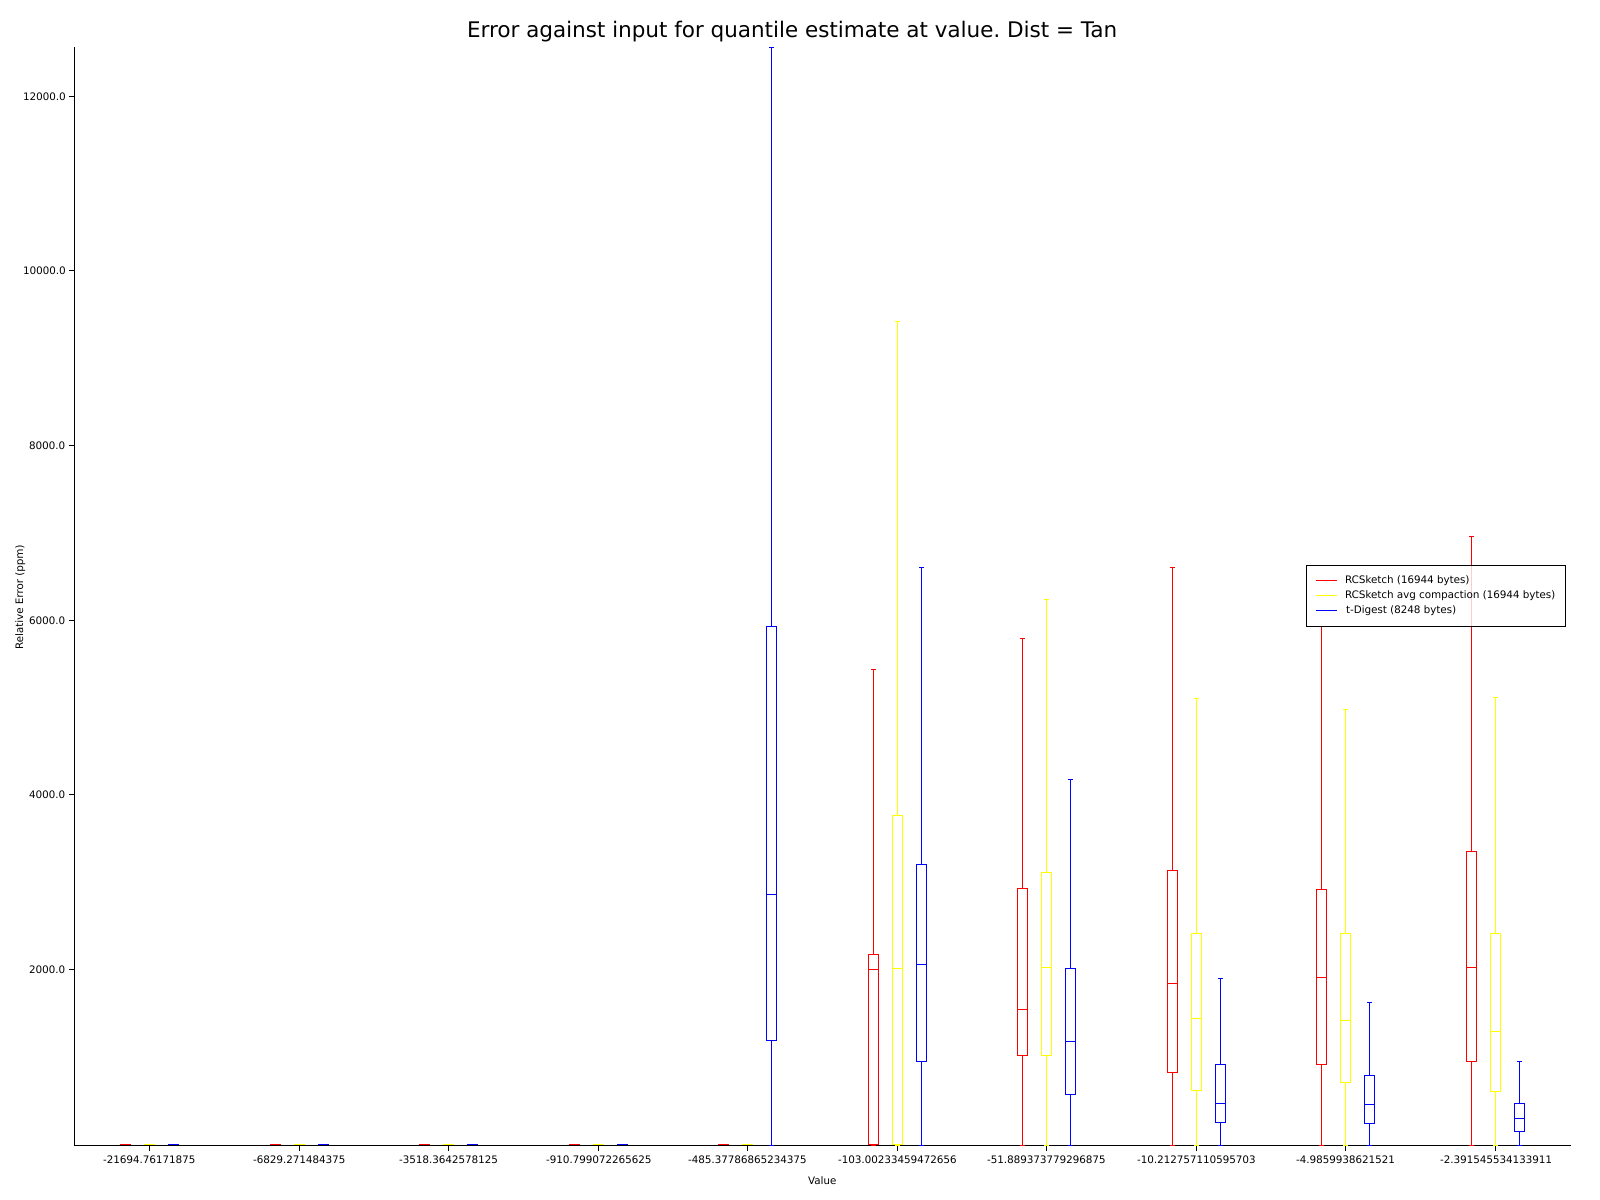
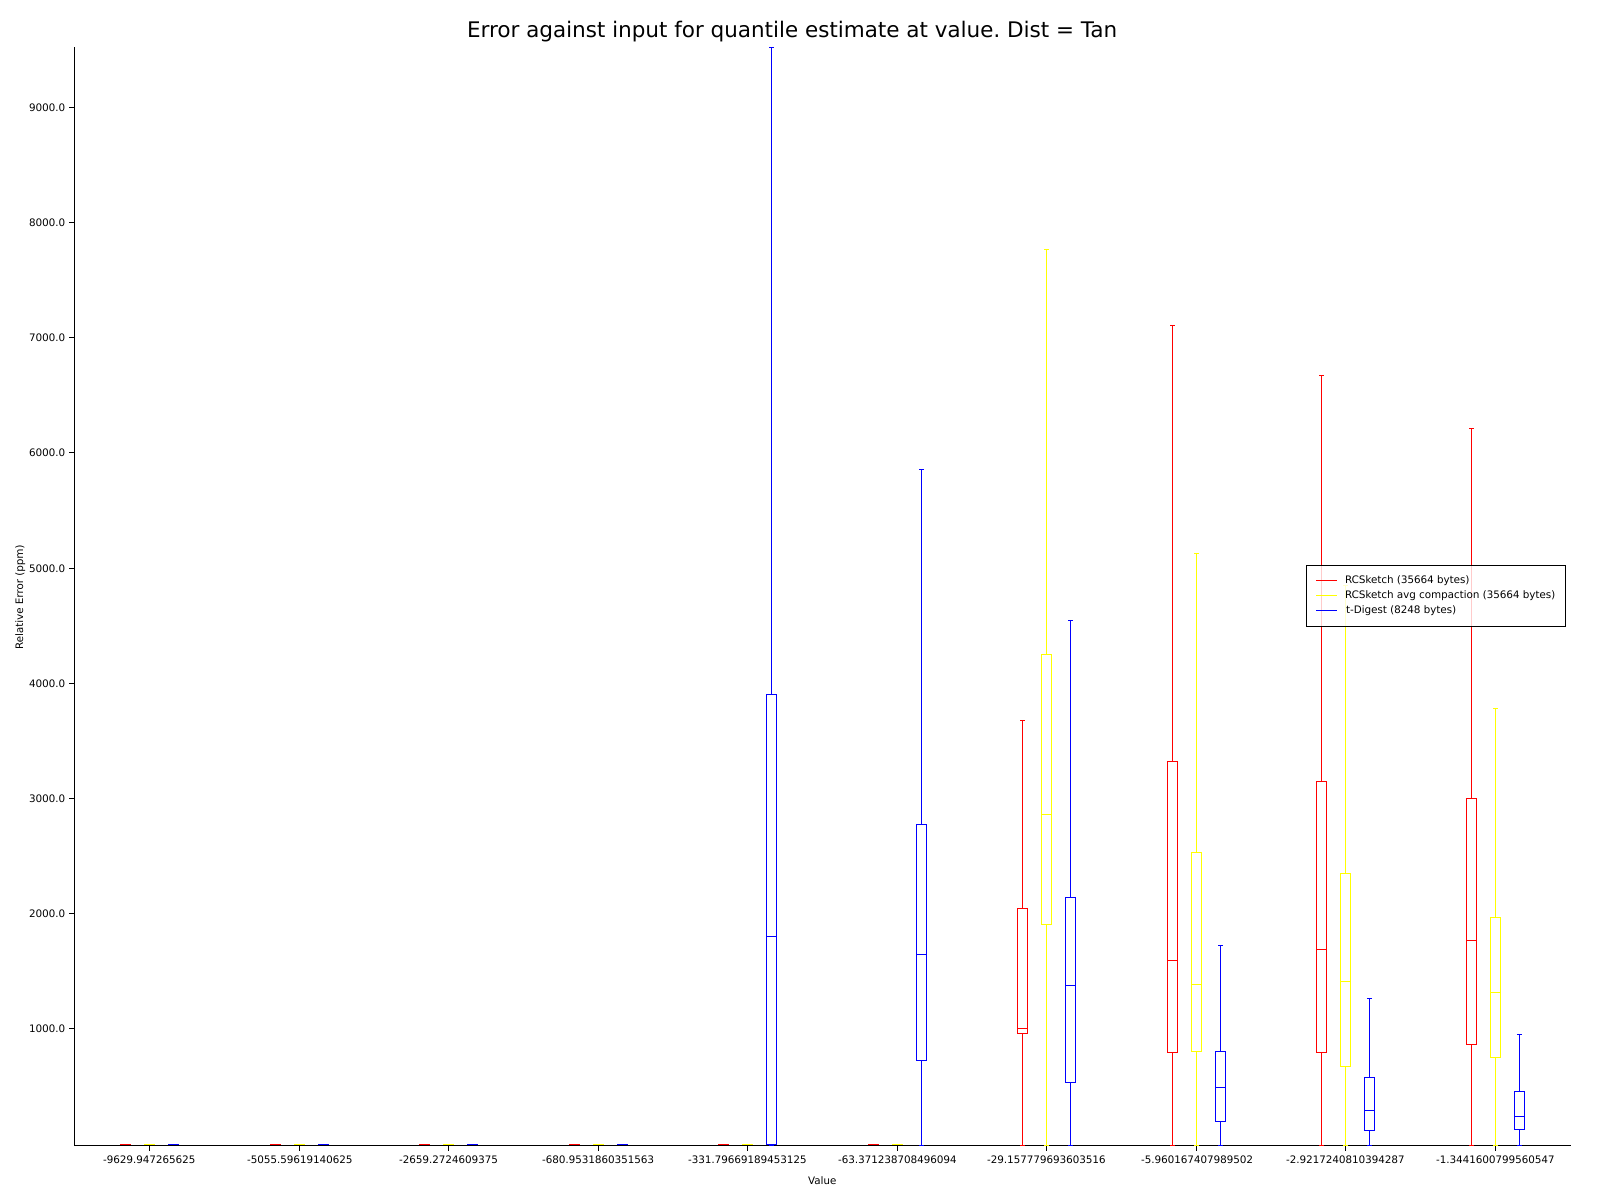
Test out only compacting the relative compactor when the whole digest would grow too large rather than individual buffers
- Performance is worse
- Accuracy not much better

diff --git a/src/relative_compactor.rs b/src/relative_compactor.rs
@@ -10,8 +10,10 @@ where
 {
     /// Vector of relative compactors
     pub buffers: Vec<Vec<F>>,
-    /// Upper bound on the number of inputs expected
-    pub input_length: usize,
+    // /// Upper bound on the number of inputs expected
+    // pub input_length: usize,
+    /// Number of elements in the compactor
+    pub nom_size: usize,
     /// Parameter controlling error and buffer size
     pub k: usize,
     /// Size of the buffers
@@ -96,8 +98,8 @@ where
     pub fn new(input_length: usize, k: usize) -> RCSketch<F> {
         RCSketch {
             buffers: Vec::new(),
-            input_length,
             k,
+            nom_size: 0,
             buffer_size: Self::calc_buffer_size(input_length, k),
             count: 0,
             compaction_counters: Vec::new(),
@@ -176,20 +178,10 @@ where
             self.compaction_counters.push(0);
         }
         self.buffers[rc_index].push(item);
+        self.nom_size += 1;
         // If buffer is full compact and insert into the next buffer
-        if self.buffers[rc_index].len() >= self.buffer_size {
-            let compaction_index = if fast_compaction {
-                self.get_compact_index_fast()
-            } else {
-                self.get_compact_index(rc_index)
-            };
-            let output_items = self.compact(rc_index, compaction_index, compaction_method);
-            self.insert_at_rc_batch(
-                &output_items,
-                rc_index + 1,
-                fast_compaction,
-                compaction_method,
-            );
+        if self.nom_size >= self.buffer_size * self.buffers.len() {
+            self.compress(fast_compaction, compaction_method);
         }
     }
 
@@ -216,26 +208,35 @@ where
         let mut current_index = 0;
         while current_index < items.len() {
             let end = usize::min(
-                current_index + (self.buffer_size - self.buffers[rc_index].len()),
+                current_index + (self.buffer_size * self.buffers.len() - self.nom_size),
                 items.len(),
             );
             self.buffers[rc_index].extend(&items[current_index..end]);
+            self.nom_size += end - current_index;
             current_index = end;
             // If buffer is full compact and insert into the next buffer
             // Buffer may be overfilled since more than one item was added so keep compacting until size is below the buffer size.
-            while self.buffers[rc_index].len() >= self.buffer_size {
+            if self.nom_size >= self.buffer_size * self.buffers.len() {
+                self.compress(fast_compaction, compaction_method);
+            }
+        }
+    }
+
+    pub fn compress(&mut self, fast_compaction: bool, compaction_method: CompactionMethod) {
+        for h in 0..self.buffers.len() {
+            if self.buffers[h].len() >= self.buffer_size {
                 let compaction_index = if fast_compaction {
                     self.get_compact_index_fast()
                 } else {
-                    self.get_compact_index(rc_index)
+                    self.get_compact_index(h)
                 };
-                let output_items = self.compact(rc_index, compaction_index, compaction_method);
-                self.insert_at_rc_batch(
-                    &output_items,
-                    rc_index + 1,
-                    fast_compaction,
-                    compaction_method,
-                );
+                let output_items = self.compact(h, compaction_index, compaction_method);
+                self.nom_size += output_items.len();
+                if self.buffers.len() == h + 1 {
+                    self.buffers.push(Vec::with_capacity(self.buffer_size));
+                    self.compaction_counters.push(0);
+                }
+                self.buffers[h + 1].extend(output_items);
             }
         }
     }
@@ -254,6 +255,7 @@ where
         // Sort and extract the largest values
         self.buffers[rc_index].sort_by(|a, b| a.partial_cmp(&b).unwrap());
         let upper = self.buffers[rc_index].split_off(compact_index);
+        self.nom_size -= upper.len();
 
         match compaction_method {
             CompactionMethod::Default => {
